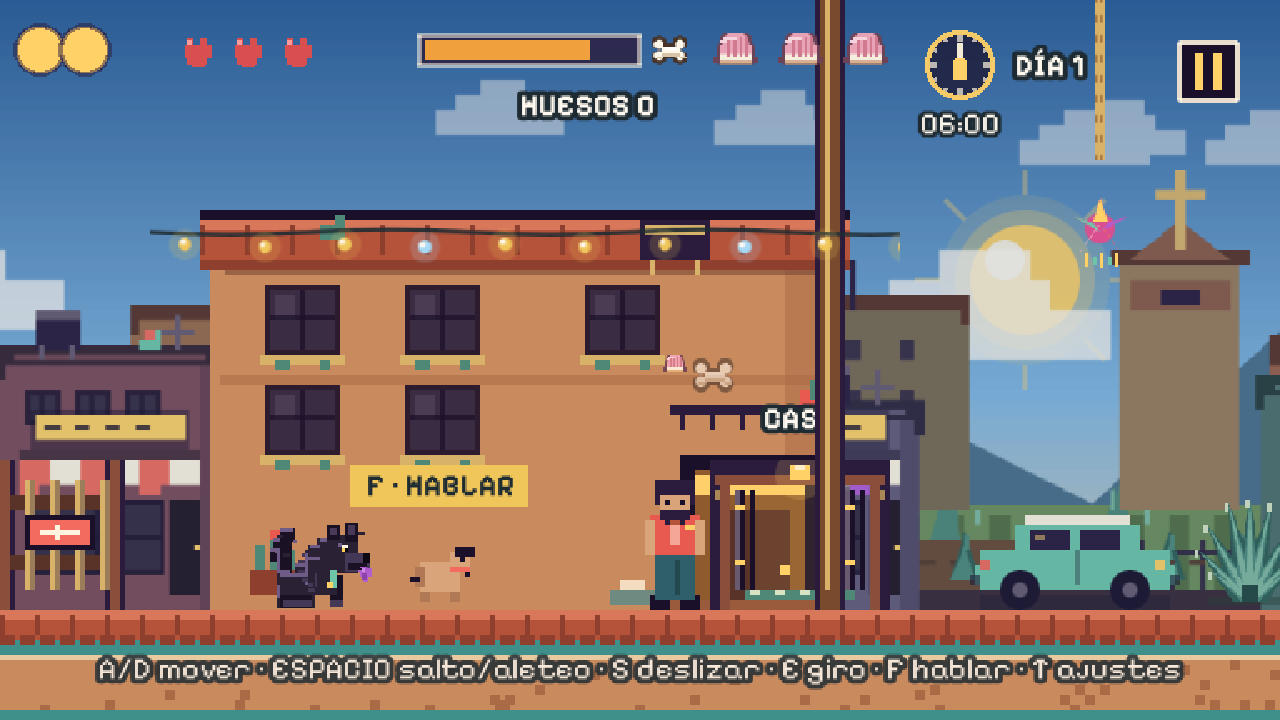
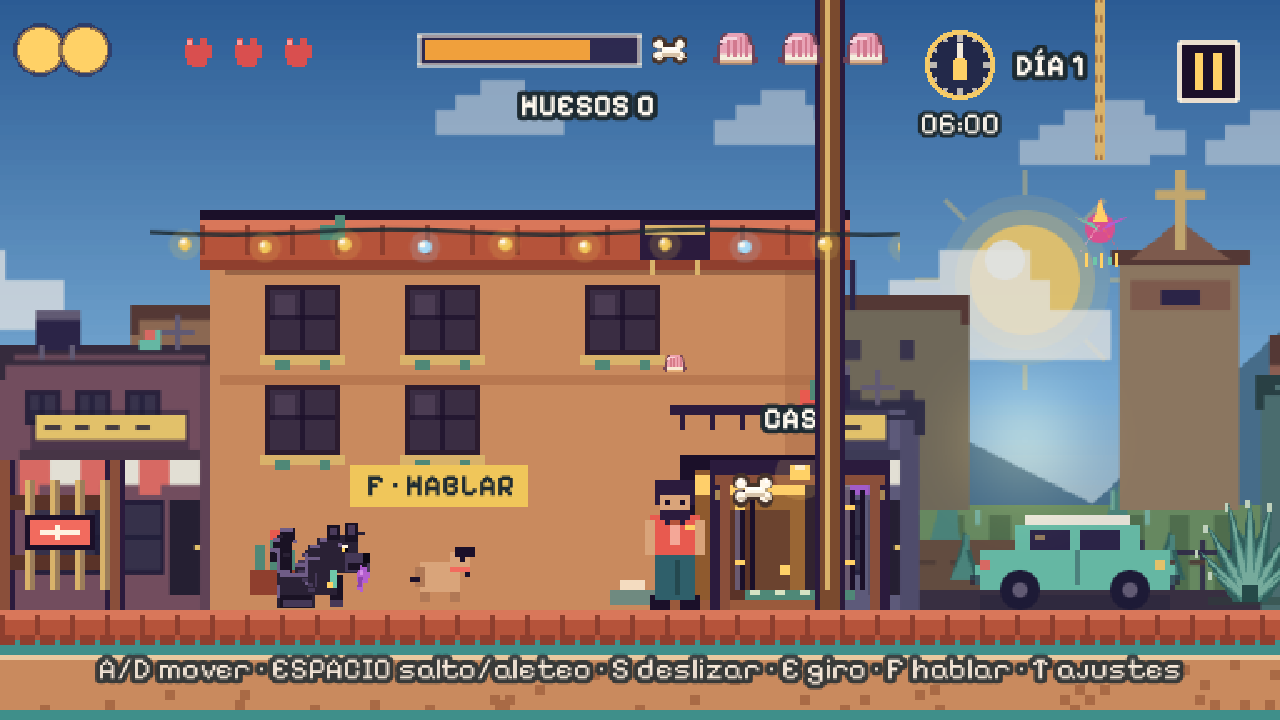
Add selective bloom and spark-pole lighting

diff --git a/src/ui/LightingPostFX.js b/src/ui/LightingPostFX.js
@@ -9,6 +9,7 @@ uniform float uIntensity;
 uniform float uTime;
 uniform vec3 uAmbient;
 uniform vec4 uHeroLight;
+
 uniform vec4 uLight0;
 uniform vec4 uLight1;
 uniform vec4 uLight2;
@@ -18,49 +19,90 @@ uniform vec4 uLight5;
 uniform vec4 uLight6;
 uniform vec4 uLight7;
 
+uniform vec3 uLightColor0;
+uniform vec3 uLightColor1;
+uniform vec3 uLightColor2;
+uniform vec3 uLightColor3;
+uniform vec3 uLightColor4;
+uniform vec3 uLightColor5;
+uniform vec3 uLightColor6;
+uniform vec3 uLightColor7;
+
+uniform vec4 uBloom0;
+uniform vec4 uBloom1;
+uniform vec4 uBloom2;
+uniform vec4 uBloom3;
+uniform vec4 uBloom4;
+uniform vec4 uBloom5;
+uniform vec4 uBloom6;
+uniform vec4 uBloom7;
+
+uniform vec3 uBloomColor0;
+uniform vec3 uBloomColor1;
+uniform vec3 uBloomColor2;
+uniform vec3 uBloomColor3;
+uniform vec3 uBloomColor4;
+uniform vec3 uBloomColor5;
+uniform vec3 uBloomColor6;
+uniform vec3 uBloomColor7;
+
 varying vec2 outTexCoord;
 varying vec2 outFragCoord;
 
-float lampContribution(vec2 pixel, vec4 light) {
+float lightFalloff(vec2 pixel, vec4 light) {
   float dist = distance(pixel, light.xy);
   float falloff = 1.0 - smoothstep(0.0, light.z, dist);
-  return falloff * falloff * light.w;
+  return falloff * falloff;
+}
+
+float bloomFalloff(vec2 pixel, vec4 bloom) {
+  float dist = distance(pixel, bloom.xy);
+  float falloff = 1.0 - smoothstep(0.0, bloom.z, dist);
+  return falloff * falloff;
 }
 
 void main () {
   vec4 color = texture2D(uMainSampler, outTexCoord);
   vec2 pixel = outFragCoord * uResolution;
-  float light = 0.0;
 
-  light += lampContribution(pixel, uLight0);
-  light += lampContribution(pixel, uLight1);
-  light += lampContribution(pixel, uLight2);
-  light += lampContribution(pixel, uLight3);
-  light += lampContribution(pixel, uLight4);
-  light += lampContribution(pixel, uLight5);
-  light += lampContribution(pixel, uLight6);
-  light += lampContribution(pixel, uLight7);
+  vec3 light = vec3(0.0);
+  light += uLightColor0 * lightFalloff(pixel, uLight0) * uLight0.w;
+  light += uLightColor1 * lightFalloff(pixel, uLight1) * uLight1.w;
+  light += uLightColor2 * lightFalloff(pixel, uLight2) * uLight2.w;
+  light += uLightColor3 * lightFalloff(pixel, uLight3) * uLight3.w;
+  light += uLightColor4 * lightFalloff(pixel, uLight4) * uLight4.w;
+  light += uLightColor5 * lightFalloff(pixel, uLight5) * uLight5.w;
+  light += uLightColor6 * lightFalloff(pixel, uLight6) * uLight6.w;
+  light += uLightColor7 * lightFalloff(pixel, uLight7) * uLight7.w;
+
+  vec3 bloom = vec3(0.0);
+  bloom += uBloomColor0 * bloomFalloff(pixel, uBloom0) * uBloom0.w;
+  bloom += uBloomColor1 * bloomFalloff(pixel, uBloom1) * uBloom1.w;
+  bloom += uBloomColor2 * bloomFalloff(pixel, uBloom2) * uBloom2.w;
+  bloom += uBloomColor3 * bloomFalloff(pixel, uBloom3) * uBloom3.w;
+  bloom += uBloomColor4 * bloomFalloff(pixel, uBloom4) * uBloom4.w;
+  bloom += uBloomColor5 * bloomFalloff(pixel, uBloom5) * uBloom5.w;
+  bloom += uBloomColor6 * bloomFalloff(pixel, uBloom6) * uBloom6.w;
+  bloom += uBloomColor7 * bloomFalloff(pixel, uBloom7) * uBloom7.w;
 
   float flicker = 0.94 + 0.06 * sin(uTime * 2.4 + pixel.x * 0.006);
-  float amount = light * flicker * uIntensity;
-  float hero = lampContribution(pixel, uHeroLight) * uIntensity;
-  vec3 warm = vec3(1.0, 0.78, 0.48);
+  float amount = flicker * uIntensity;
+  float hero = lightFalloff(pixel, uHeroLight) * uHeroLight.w * uIntensity;
   vec3 moon = vec3(0.62, 0.76, 1.0);
   vec3 ambient = mix(vec3(1.0), uAmbient, uIntensity);
 
-  color.rgb *= ambient + warm * amount * 1.5 + moon * hero * 0.85;
-  color.rgb += warm * amount * 0.12 + moon * hero * 0.04;
+  color.rgb *= ambient + light * amount * 1.5 + moon * hero * 0.85;
+  color.rgb += light * amount * 0.12 + moon * hero * 0.04 + bloom;
   gl_FragColor = color;
 }
 `;
 
 /**
- * A screen-space night-lighting pass. On WebGL the HUD is rendered by a
- * second camera, so this pass only affects the world: ambient darkness is
- * multiplied in, while street lamps carve warm pools out of it and Bonjo
- * carries a faint cool halo for readability. The painted cones and glows stay
- * underneath as the fallback and texture detail. Nothing here blurs, blooms or
- * darkens the UI.
+ * A screen-space night-lighting and selective-bloom pass. On WebGL the HUD is
+ * rendered by a second camera, so this only affects the world: ambient darkness
+ * is multiplied in, street lamps carve warm or spark-blue pools out of it, and
+ * a small set of emissive points (shards, lamps, signs, sun/moon) receive a soft
+ * additive bloom. Nothing here blurs or darkens the UI.
  */
 export default class LampLightingPipeline extends Phaser.Renderer.WebGL.Pipelines.PostFXPipeline {
   constructor(game) {
@@ -72,6 +114,7 @@ export default class LampLightingPipeline extends Phaser.Renderer.WebGL.Pipeline
     this.intensity = 0;
     this.time = 0;
     this.lights = [];
+    this.bloom = [];
     this.hero = { x: -9999, y: -9999, r: 1, s: 0 };
     this.ambient = { r: 0.52, g: 0.5, b: 0.64 };
   }
@@ -84,8 +127,32 @@ export default class LampLightingPipeline extends Phaser.Renderer.WebGL.Pipeline
     this.set4f('uHeroLight', this.hero.x, this.hero.y, this.hero.r, this.hero.s);
 
     for (let i = 0; i < 8; i++) {
-      const light = this.lights[i] || { x: -9999, y: -9999, r: 1, s: 0 };
+      const light = this.lights[i] || {
+        x: -9999,
+        y: -9999,
+        r: 1,
+        s: 0,
+        color: { r: 1, g: 0.78, b: 0.48 },
+      };
+      const color = light.color || { r: 1, g: 0.78, b: 0.48 };
       this.set4f(`uLight${i}`, light.x, light.y, light.r, light.s);
+      this.set3f(`uLightColor${i}`, color.r, color.g, color.b);
+
+      const bloom = this.bloom[i] || {
+        x: -9999,
+        y: -9999,
+        r: 1,
+        s: 0,
+        color: { r: 1, g: 1, b: 1 },
+      };
+      const bloomColor = bloom.color || { r: 1, g: 1, b: 1 };
+      this.set4f(`uBloom${i}`, bloom.x, bloom.y, bloom.r, bloom.s);
+      this.set3f(
+        `uBloomColor${i}`,
+        bloomColor.r,
+        bloomColor.g,
+        bloomColor.b,
+      );
     }
 
     this.bindAndDraw(renderTarget);

diff --git a/src/scenes/Level1.js b/src/scenes/Level1.js
@@ -64,6 +64,21 @@ const SPARK_WARN_SECONDS = 1.2;
 const SPARK_LIVE_SECONDS = 0.7;
 const SPARK_CYCLE_SECONDS = SPARK_WARN_SECONDS + SPARK_LIVE_SECONDS + 1.4;
 
+// Small emissive points feed the world-camera bloom pass.
+const WARM_LIGHT_COLOR = { r: 1, g: 0.78, b: 0.48 };
+const SPARK_LIGHT_COLOR = { r: 0.56, g: 0.84, b: 1 };
+const SUN_BLOOM_COLOR = { r: 1, g: 0.84, b: 0.38 };
+const MOON_BLOOM_COLOR = { r: 0.68, g: 0.84, b: 1 };
+const BLOOM_MAX = 8;
+
+function colorFromHex(hex) {
+  return {
+    r: ((hex >> 16) & 0xff) / 255,
+    g: ((hex >> 8) & 0xff) / 255,
+    b: (hex & 0xff) / 255,
+  };
+}
+
 const CAT_LINES = [
   'dialog.cat',
   'dialog.cat.2',
@@ -2566,9 +2581,9 @@ export default class Level1 extends Phaser.Scene {
     const fx = this.lampLightFX;
     if (!fx) return;
 
-    // The existing night wash still owns ambient darkness. This pass only
-    // adds the warm pool around each lamp, so it can fade independently at
-    // dawn without changing the scene's base exposure.
+    // The existing night wash still owns ambient darkness. This pass adds the
+    // lamp pools, Bonjo halo and selective bloom without changing the scene's
+    // base exposure; it can fade independently at dawn.
     const target = this.phase === 'night' ? 1 : 0;
     const blend = 1 - Math.pow(0.0025, delta / 1000);
     fx.intensity = Phaser.Math.Linear(fx.intensity, target, blend);
@@ -2582,15 +2597,112 @@ export default class Level1 extends Phaser.Scene {
       // pool during the live-wire phase instead of glowing at full strength.
       const alpha = glow.visible ? glow.alpha : 0;
       if (alpha <= 0.01) continue;
+      const spark = this.sparkPoles?.find((pole) => pole.glow === glow);
       lights.push({
         x: glow.x - cam.scrollX,
         // PostFX quad coordinates are bottom-up, so flip the camera-space Y.
         y: cam.height - (glow.y - cam.scrollY),
         r: 54 * S,
         s: 0.36 * alpha,
+        color: spark?.live ? SPARK_LIGHT_COLOR : WARM_LIGHT_COLOR,
       });
     }
     fx.lights = lights;
+
+    // Selective point bloom. The shader adds a soft halo around emissive
+    // gameplay elements only; the world camera means HUD text stays crisp.
+    const bloom = [];
+    const pushBloom = (screenX, screenY, radius, strength, color) => {
+      if (bloom.length >= BLOOM_MAX || strength <= 0.01) return;
+      if (
+        screenX < -radius ||
+        screenX > cam.width + radius ||
+        screenY < -radius ||
+        screenY > cam.height + radius
+      ) {
+        return;
+      }
+      bloom.push({
+        x: screenX,
+        y: screenY,
+        r: radius,
+        s: strength,
+        color,
+      });
+    };
+    const pushWorldBloom = (worldX, worldY, radius, strength, color) =>
+      pushBloom(
+        worldX - cam.scrollX,
+        cam.height - (worldY - cam.scrollY),
+        radius,
+        strength,
+        color,
+      );
+
+    const shardColor =
+      this.phase === 'day' ? SUN_BLOOM_COLOR : MOON_BLOOM_COLOR;
+    for (const shard of this.timeShardGroup?.getChildren() || []) {
+      if (!shard.active || !shard.visible) continue;
+      pushWorldBloom(shard.x, shard.y, 18 * S, 0.5, shardColor);
+      if (bloom.length >= BLOOM_MAX) break;
+    }
+
+    if (this.phase === 'day' && this.sun?.visible && this.sun.alpha > 0.05) {
+      pushBloom(
+        this.sun.x - cam.scrollX * this.sun.scrollFactorX,
+        this.sun.y - cam.scrollY * this.sun.scrollFactorY,
+        28 * S,
+        0.18 * this.sun.alpha,
+        SUN_BLOOM_COLOR,
+      );
+    } else if (
+      this.phase === 'night' &&
+      this.moon?.visible &&
+      this.moon.alpha > 0.05
+    ) {
+      pushBloom(
+        this.moon.x - cam.scrollX * this.moon.scrollFactorX,
+        this.moon.y - cam.scrollY * this.moon.scrollFactorY,
+        40 * S,
+        0.3 * this.moon.alpha,
+        MOON_BLOOM_COLOR,
+      );
+    }
+
+    for (const spark of this.sparkPoles || []) {
+      if (bloom.length >= BLOOM_MAX) break;
+      if (!spark.live || !spark.glow?.visible) continue;
+      pushWorldBloom(
+        spark.glow.x,
+        spark.glow.y,
+        30 * S,
+        0.55,
+        SPARK_LIGHT_COLOR,
+      );
+    }
+
+    if (this.phase === 'night') {
+      for (const sign of SHOP_SIGNS || []) {
+        if (bloom.length >= BLOOM_MAX) break;
+        pushWorldBloom(
+          sign.x * S,
+          sign.y * S,
+          22 * S,
+          0.3,
+          colorFromHex(sign.glow),
+        );
+      }
+    }
+
+    for (const glow of this.lampGlows || []) {
+      if (bloom.length >= BLOOM_MAX) break;
+      const alpha = glow.visible ? glow.alpha : 0;
+      if (alpha <= 0.01) continue;
+      const spark = this.sparkPoles?.find((pole) => pole.glow === glow);
+      if (spark?.live) continue;
+      pushWorldBloom(glow.x, glow.y, 22 * S, 0.34 * alpha, WARM_LIGHT_COLOR);
+    }
+    fx.bloom = bloom;
 
     if (this.dog && !this.dog.dead) {
       fx.hero = {

diff --git a/DESIGN.md b/DESIGN.md
@@ -348,18 +348,21 @@ foreground house windows glow, and colored neon shop signs (PAN, TIENDA, TACOS,
 FLORES...) float above the awnings. On WebGL, a screen-space night pass
 (`src/ui/LightingPostFX.js`) replaces the flat full-scene wash with a cool
 moonlit ambient. Each lit lamp carves a warm pool out of that darkness, and
-Bonjo carries a faint cool halo so he stays readable between lamps. The world
-and lighting are rendered by the main camera; the HUD and every card render on
-a second clean camera, so text never sits inside the darkening pass. The pass
-caps at eight screen-space lamps and follows each lamp sprite's alpha, so a
-sparking lamp dims its pool during the live-wire phase. Canvas rendering skips
-the pipeline, the HUD camera and the shader ambient, keeping the original flat
-night wash, cone and glow sprites unchanged. Three defective lamps use the same
-lamp post art as the normal ones, but their cone dims and their cycle runs 1.2 s
-of warning flicker, 0.7 s of live ground arc, then 1.4 s of cooldown. The arc is
-only ~20 design px tall, so a normal jump clears it; waiting also works. Contact
-costs one heart and knocks Bonjo away, using the normal invulnerability window.
-Enemies ignore the arc, and the pole itself is decorative.
+Bonjo carries a faint cool halo so he stays readable between lamps. The same
+pass runs a lightweight selective bloom on up to eight emissive points:
+sun/moon shards, lamp bulbs, neon signs and the sun or moon. Live sparking
+lamps switch their pool and bloom to a cold blue-white. The world and lighting
+are rendered by the main camera; the HUD and every card render on a second clean
+camera, so text never sits inside the darkening pass. The pass caps at eight
+screen-space lamps and eight bloom points, and follows each lamp sprite's alpha,
+so a sparking lamp dims its pool during the live-wire phase. Canvas rendering
+skips the pipeline, the HUD camera and the shader ambient, keeping the original
+flat night wash, cone and glow sprites unchanged. Three defective lamps use the
+same lamp post art as the normal ones, but their cone dims and their cycle runs
+1.2 s of warning flicker, 0.7 s of live ground arc, then 1.4 s of cooldown. The
+arc is only ~20 design px tall, so a normal jump clears it; waiting also works.
+Contact costs one heart and knocks Bonjo away, using the normal invulnerability
+window. Enemies ignore the arc, and the pole itself is decorative.
 
 ### Health, life hearts & hunger
 Bonjo has **3 hearts** and a hunger bar (0–100). Enemy contact costs one heart,

diff --git a/README.md b/README.md
@@ -75,11 +75,13 @@ The game itself now starts in Spanish.
   storefronts light up with colored neon signs (PAN, TIENDA, TACOS, FLORES...).
   On WebGL, a screen-space night pass darkens the world to a cool moonlit
   ambient and lets the lamps carve warm pools out of it; Bonjo carries a faint
-  cool halo so he stays readable between lamps. The HUD and cards render on a
-  separate clean camera, and Canvas keeps the original flat night wash, cones
-  and glows. Three damaged lamps use the same post art but warn with a flicker,
-  then send a low electric arc across the ground. Wait for the safe window or
-  jump over it; contact costs one heart and knocks Bonjo back.
+  cool halo so he stays readable between lamps. The same pass adds a light
+  selective bloom to sun/moon shards, lamp bulbs, neon signs and the sun/moon,
+  while live sparking lamps shift to a cold blue glow. The HUD and cards render
+  on a separate clean camera, and Canvas keeps the original flat night wash,
+  cones and glows. Three damaged lamps use the same post art but warn with a
+  flicker, then send a low electric arc across the ground. Wait for the safe
+  window or jump over it; contact costs one heart and knocks Bonjo back.
 - **High routes:** one-way fire escapes, laundry lines and terracotta rooftops
   climb above the street. Higher tiers carry bones, conchas and high piñatas;
   practice the flap-and-glide chain to reach them.
